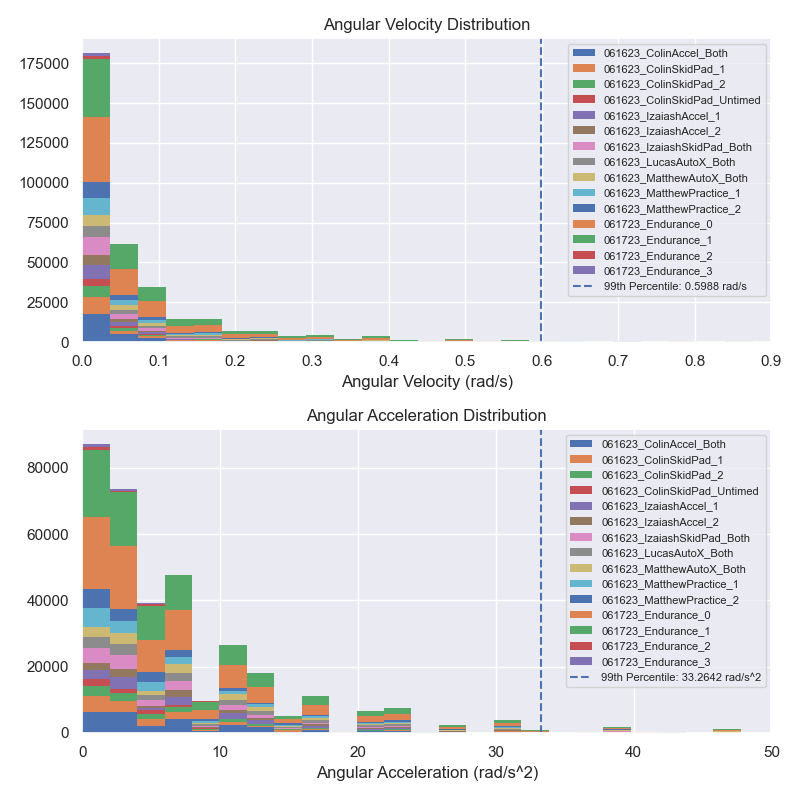
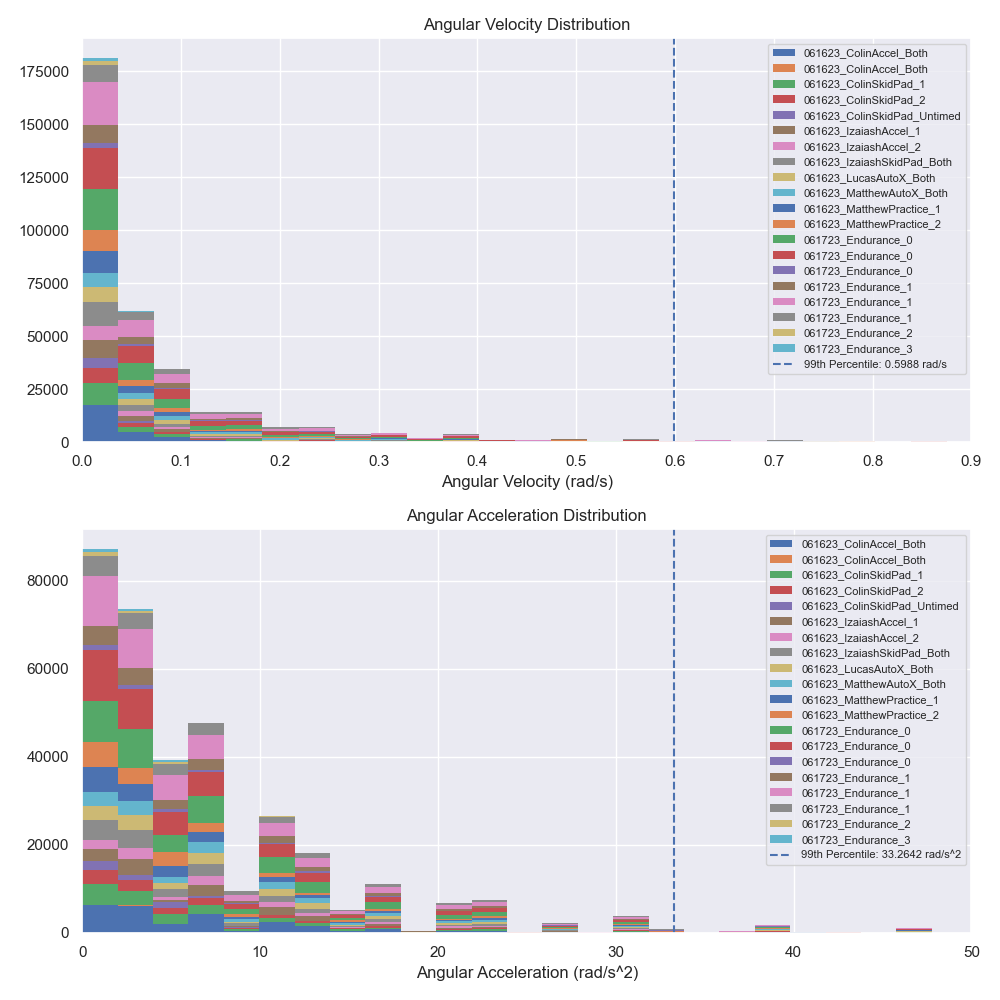
resets

diff --git a/plotter.py b/plotter.py
@@ -13,13 +13,24 @@ sns.set()
 def differentiate(x, y):
   return x[:-1], np.diff(y) / np.diff(x)
 
-fig, axs = plt.subplots(nrows=2, figsize=(8, 8))
-axs[0].set_title(f'Angular Velocity Distribution')
-axs[0].set_xlabel('Angular Velocity (rad/s)')
-axs[0].set_xlim(right=0.9)
-axs[1].set_title(f'Angular Acceleration Distribution')
-axs[1].set_xlabel('Angular Acceleration (rad/s^2)')
-axs[1].set_xlim(right=50.0)
+fig1, axs1 = plt.subplots(nrows=3, figsize=(20, 10))
+axs1[0].set_title(f'Steering Angle vs. Time')
+axs1[0].set_xlabel('Time (s)')
+axs1[0].set_ylabel('Steering Angle (rad)')
+axs1[1].set_title(f'Angular Velocity vs. Time')
+axs1[1].set_xlabel('Time (s)')
+axs1[1].set_ylabel('Angular Velocity (rad/s)')
+axs1[2].set_title(f'Angular Acceleration vs. Time')
+axs1[2].set_xlabel('Time (s)')
+axs1[2].set_ylabel('Angular Acceleration (rad/s^2)')
+
+fig2, axs2 = plt.subplots(nrows=2, figsize=(10, 10))
+axs2[0].set_title(f'Angular Velocity Distribution')
+axs2[0].set_xlabel('Angular Velocity (rad/s)')
+axs2[0].set_xlim(right=0.9)
+axs2[1].set_title(f'Angular Acceleration Distribution')
+axs2[1].set_xlabel('Angular Acceleration (rad/s^2)')
+axs2[1].set_xlim(right=50.0)
 
 vels = []
 accels = []
@@ -27,26 +38,47 @@ labels = []
 
 for csv in sorted(os.listdir(CSV_DIR)):
   df = pd.read_csv(os.path.join(CSV_DIR, csv))
-  time = ((df['TimeLow [us/10]'] - df['TimeLow [us/10]'][0]) / 1e7).to_numpy()
-  name = csv.replace('.csv', '')
+  position = df[CHANNEL].to_numpy()
+  time = df['TimeLow [us/10]'].to_numpy()
+  dt = np.diff(time)
+  resets = np.argwhere(dt < 0).squeeze(axis=1) + 1
+  positions = np.split(position, resets)
+  times = np.split(time, resets)
+  for i in range(len(positions)):
+    time = (times[i] - times[i][0]) / 1e7
+    name = csv.replace('.csv', '')
 
-  pos = df[CHANNEL].to_numpy()
-  time, vel = differentiate(time, pos)
-  time, accel = differentiate(time, vel)
+    # steering angle
+    position = positions[i]
+    axs1[0].plot(time, position, alpha=0.5, label=name)
 
-  vels.append(vel)
-  accels.append(accel)
-  labels.append(name)
+    # angular vel
+    time, vel = differentiate(time, position)
+    axs1[1].plot(time, vel, alpha=0.5, label=name)
 
-axs[0].hist([np.abs(v) for v in vels], bins=100, stacked=True, edgecolor='none', label=labels)
-axs[1].hist([np.abs(a) for a in accels], bins=100, stacked=True, edgecolor='none', label=labels)
+    # angular accel
+    time, accel = differentiate(time, vel)
+    axs1[2].plot(time, accel, alpha=0.5, label=name)
+
+    vels.append(vel)
+    accels.append(accel)
+    labels.append(name)
+
+axs2[0].hist([np.abs(vel) for vel in vels], bins=100, stacked=True, edgecolor='none', label=labels)
+axs2[1].hist([np.abs(accel) for accel in accels], bins=100, stacked=True, edgecolor='none', label=labels)
 
 vel_percentile = np.percentile(np.concatenate(vels), PERCENTILE)
 accel_percentile = np.percentile(np.concatenate(accels), PERCENTILE)
-axs[0].axvline(x=vel_percentile, linestyle='--', label=f'99th Percentile: {round(vel_percentile, 4)} rad/s')
-axs[1].axvline(x=accel_percentile, linestyle='--', label=f'99th Percentile: {round(accel_percentile, 4)} rad/s^2')
+axs2[0].axvline(x=vel_percentile, linestyle='--', label=f'99th Percentile: {round(vel_percentile, 4)} rad/s')
+axs2[1].axvline(x=accel_percentile, linestyle='--', label=f'99th Percentile: {round(accel_percentile, 4)} rad/s^2')
 
-axs[0].legend(fontsize='8')
-axs[1].legend(fontsize='8')
-plt.tight_layout()
-fig.savefig('steering_dist.png')
+axs1[0].legend(loc='upper right', fontsize='5')
+axs1[1].legend(loc='upper right', fontsize='5')
+axs1[2].legend(loc='upper right', fontsize='5')
+axs2[0].legend(loc='upper right', fontsize='8')
+axs2[1].legend(loc='upper right', fontsize='8')
+
+fig1.tight_layout()
+fig1.savefig('steering_pot.png')
+fig2.tight_layout()
+fig2.savefig('steering_dist.png')
